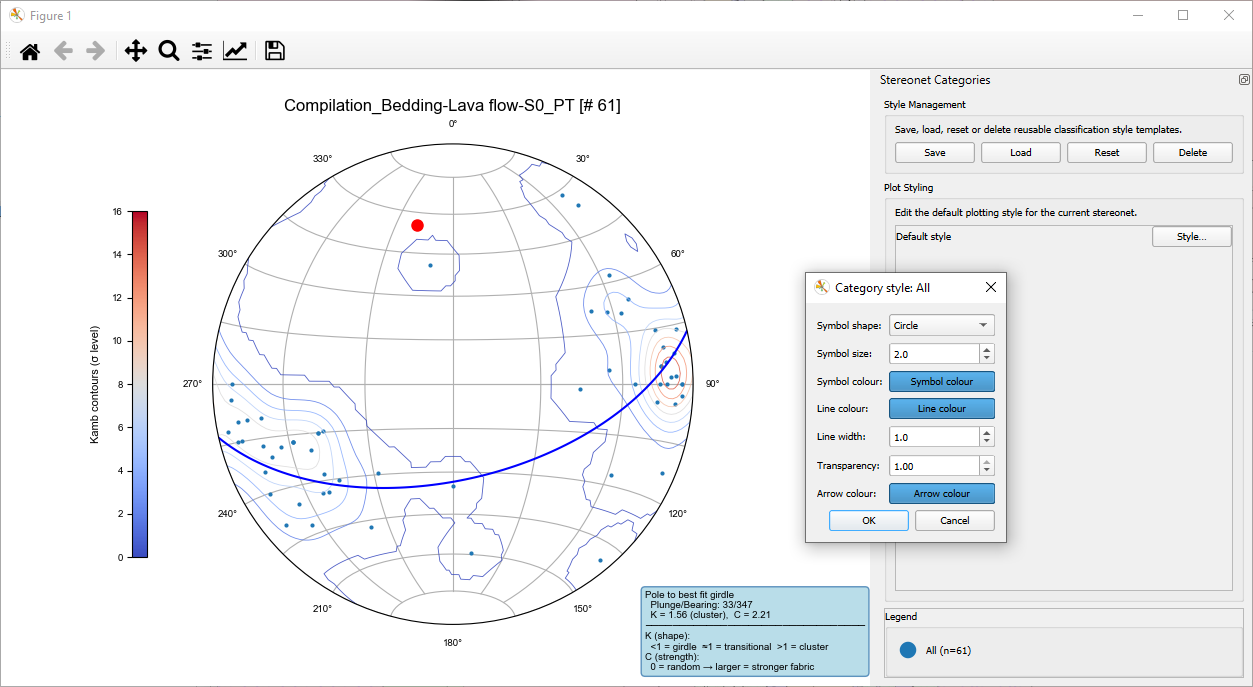
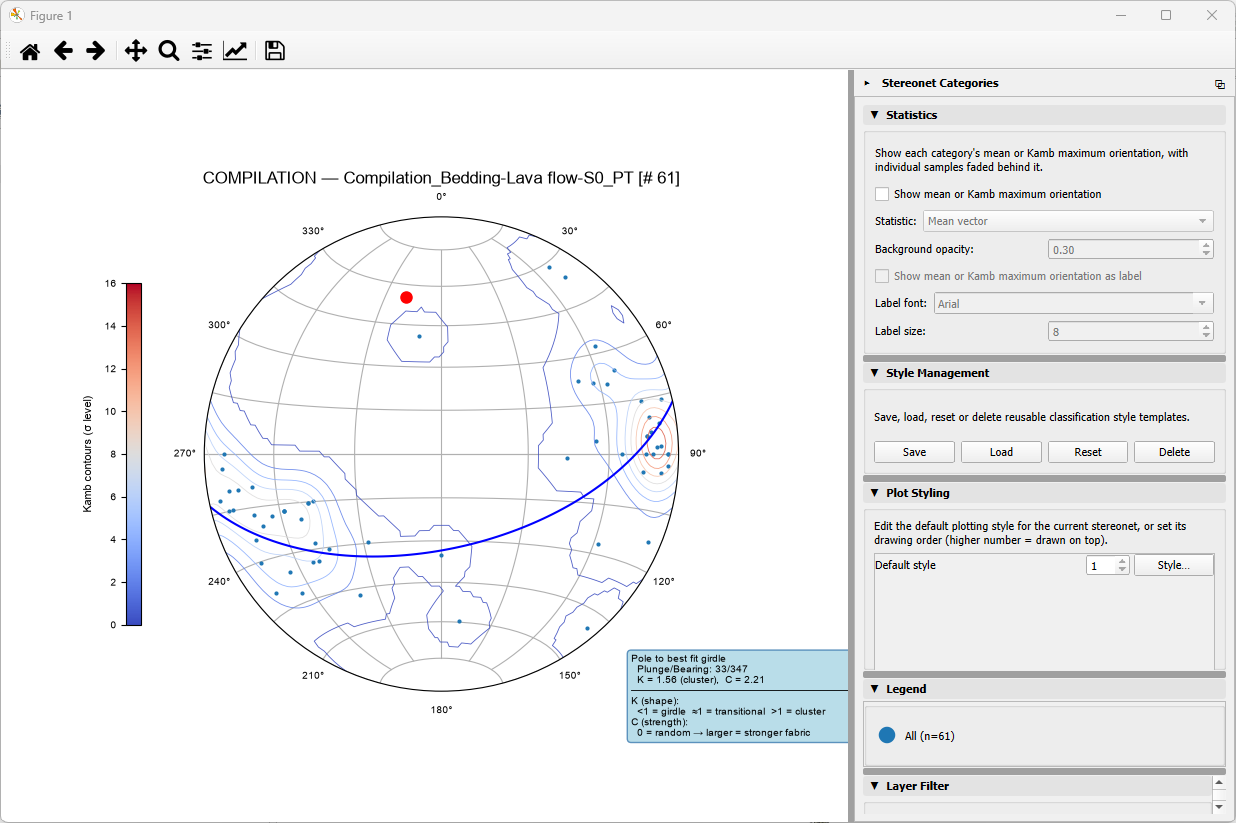
Make the Settings window a dockable panel
The Stereoplot Settings window is now a dock widget of the QGIS main
window (docked right by default; movable, floatable, closable, listed
under View > Panels) instead of a standalone window-modal dialog.
The panel rebuilds when the layer selection or project changes, and
fits its groups to the dock height when docked.

Update the 1.0.2 changelog (README and metadata), the Settings section
of the user guide, and the affected screenshots.

diff --git a/__init__.py b/__init__.py
@@ -245,10 +245,11 @@ class _CollapsibleSection(QWidget):
             widget = widget.parentWidget()
 
 
-class StereonetSettingsDialog(QDialog):
-    """Settings dialog for controlling stereonet plot style.
+class StereonetSettingsDialog(QWidget):
+    """Settings panel for controlling stereonet plot style, shown in a dock
+    widget of the QGIS main window.
 
-    If config_path points to an existing stereonet.json the dialog reads from
+    If config_path points to an existing stereonet.json the panel reads from
     and writes back to that file.  Otherwise values are persisted in QSettings.
     """
 
@@ -285,11 +286,6 @@ class StereonetSettingsDialog(QDialog):
         self._selected_kinematics_field = None
         self._filter_expression = ''
         self._auto_detected_fields = auto_detected_fields or {}
-        self.setWindowTitle('Stereographic Projection Settings')
-        # The window stays open while plotting, so it must not block the plot
-        # windows it opens. Window-modal blocks only the QGIS main window,
-        # which keeps the layer selection stable while the window is open.
-        self.setWindowModality(Qt.WindowModality.WindowModal)
 
         cfg = self._load()
 
@@ -569,7 +565,7 @@ class StereonetSettingsDialog(QDialog):
         self.update_btn.setDefault(True)
         self.update_btn.setToolTip(
             'Save these settings and generate the plot (same as clicking the '
-            'Stereoplot icon). This window stays open so you can adjust the '
+            'Stereoplot icon). This panel stays open so you can adjust the '
             'settings and plot again.')
         self.update_btn.clicked.connect(lambda _checked=False: self._update_and_plot())
         button_row = QHBoxLayout()
@@ -590,8 +586,25 @@ class StereonetSettingsDialog(QDialog):
         super().showEvent(event)
         self._schedule_fit()
 
+    def resizeEvent(self, event):
+        super().resizeEvent(event)
+        # When docked, the dock (not this panel) decides the height, so
+        # re-share it between the groups whenever the user resizes the dock.
+        dock = self._dock()
+        if dock is not None and not dock.isFloating() and event.oldSize().height() != event.size().height():
+            self._schedule_fit()
+
+    def _dock(self):
+        """The dock widget holding this panel, or None."""
+        widget = self.parentWidget()
+        while widget is not None:
+            if isinstance(widget, QDockWidget):
+                return widget
+            widget = widget.parentWidget()
+        return None
+
     def _schedule_fit(self, *_args):
-        """Fit the window to its groups after one is collapsed/expanded
+        """Fit the panel to its groups after one is collapsed/expanded
         (deferred, and coalesced if several changes arrive together)."""
         self._fit_repeats = 0
         self._queue_fit(0)
@@ -615,15 +628,22 @@ class StereonetSettingsDialog(QDialog):
         return header + 2 + height
 
     def _fit_to_contents(self):
-        """Size the window and its four groups to use the space well.
+        """Size the panel and its four groups to use the space well.
 
         Each expanded group gets the height its contents need and each
-        collapsed group just its header; the window grows/shrinks to match (up
-        to 90% of the screen). If the screen limit is hit, the Field
-        Assignment group gives up height first, then Plot Options, then
-        Classification and Data Filter; the groups scroll as needed.
+        collapsed group just its header. When the dock is floating, its window
+        grows/shrinks to match (up to 90% of the screen); when docked, the
+        groups share the height the dock has. If there is not enough height,
+        the Field Assignment group gives up height first, then Plot Options,
+        then Classification and Data Filter; the groups scroll as needed.
         """
         self._fit_pending = False
+        try:
+            self._fit_to_contents_now()
+        except RuntimeError:  # the panel was deleted before the timer fired
+            pass
+
+    def _fit_to_contents_now(self):
         splitter = self._settings_splitter
         sections = self._settings_sections
         margins = self.layout().contentsMargins()
@@ -632,12 +652,17 @@ class StereonetSettingsDialog(QDialog):
         handles = splitter.handleWidth() * (splitter.count() - 1)
         wants = [self._section_height(section) + 6 for section in sections]
 
-        try:
-            screen = self.screen() or QGuiApplication.primaryScreen()
-            max_total = int(screen.availableGeometry().height() * 0.9)
-        except Exception:
-            max_total = 900
-        total = min(sum(wants) + handles + chrome, max_total)
+        dock = self._dock()
+        floating = dock is None or dock.isFloating()
+        if floating:
+            try:
+                screen = self.screen() or QGuiApplication.primaryScreen()
+                max_total = int(screen.availableGeometry().height() * 0.9)
+            except Exception:
+                max_total = 900
+            total = min(sum(wants) + handles + chrome, max_total)
+        else:
+            total = self.height()
         available = total - chrome - handles
 
         alloc = list(wants)
@@ -651,8 +676,13 @@ class StereonetSettingsDialog(QDialog):
             alloc[index] -= take
             excess -= take
 
-        if total != self.height():
-            self.resize(self.width(), total)
+        if floating and total != self.height():
+            if dock is not None:
+                # Resize the floating dock window; its title bar and frame
+                # come on top of this panel's height.
+                dock.resize(dock.width(), total + dock.height() - self.height())
+            else:
+                self.resize(self.width(), total)
         splitter.setSizes(alloc)
 
         # Qt can still be re-laying-out nested widgets right after a change, so
@@ -1334,6 +1364,18 @@ class Stereonet:
         self.iface.removeToolBarIcon(self.settingsAction)
         del self.settingsAction
 
+        dock = getattr(self, '_settings_dock', None)
+        if dock is not None:
+            try:
+                self._settings_selection_model.selectionChanged.disconnect(
+                    self._on_layer_selection_changed)
+            except (TypeError, RuntimeError):
+                pass
+            self._settings_refresh_timer.stop()
+            self.iface.removeDockWidget(dock)
+            dock.deleteLater()
+            self._settings_dock = None
+
     def _structural_field_names(self):
         """Return accepted field-name variants for structural data detection."""
         return {
@@ -1676,25 +1718,74 @@ class Stereonet:
         return detected
 
     def showSettings(self):
-        project_file = QgsProject.instance().fileName()
-        config_path = None
-        if project_file:
-            config_path = os.path.join(
-                os.path.dirname(os.path.abspath(project_file)),
-                "99_COMMAND_FILES_PLUGIN",
-                "stereonet.json")
+        """Show the settings panel in a dock of the QGIS main window (right
+        side by default; it can be moved to another side or floated)."""
+        dock = getattr(self, '_settings_dock', None)
+        if dock is not None and dock.isVisible():
+            dock.raise_()
+            return
 
-        # Only one settings window at a time: bring an open one to the front.
-        existing = getattr(self, '_settings_dialog', None)
-        if existing is not None:
+        if dock is None:
+            dock = QgsDockWidget('Stereographic Projection Settings', self.iface.mainWindow())
+            dock.setObjectName('StereoplotSettingsDock')
+            self.iface.addDockWidget(Qt.DockWidgetArea.RightDockWidgetArea, dock)
+            self._settings_dock = dock
+
+            # The panel depends on the selected layers (field assignment,
+            # classification fields, ...), so rebuild it when the selection
+            # changes while it is shown. Coalesce bursts of selection changes.
+            self._settings_refresh_timer = QTimer()
+            self._settings_refresh_timer.setSingleShot(True)
+            self._settings_refresh_timer.setInterval(150)
+            self._settings_refresh_timer.timeout.connect(self._refresh_settings_panel)
+            self._settings_selection_model = self.iface.layerTreeView().selectionModel()
+            self._settings_selection_model.selectionChanged.connect(
+                self._on_layer_selection_changed)
+            # Also catch the dock being reopened from View > Panels.
+            dock.visibilityChanged.connect(self._on_layer_selection_changed)
+
+        self._build_settings_panel()
+        dock.setUserVisible(True)
+        dock.raise_()
+
+    def _on_layer_selection_changed(self, *_args):
+        dock = getattr(self, '_settings_dock', None)
+        if dock is not None and dock.isVisible():
+            self._settings_refresh_timer.start()
+
+    def _refresh_settings_panel(self):
+        """Rebuild the settings panel if the layer selection or the project
+        has changed since it was built."""
+        dock = getattr(self, '_settings_dock', None)
+        if dock is None or not dock.isVisible():
+            return
+        panel = dock.widget()
+        if isinstance(panel, StereonetSettingsDialog):
+            layers = self.iface.layerTreeView().selectedLayers()
             try:
-                if existing.isVisible():
-                    existing.raise_()
-                    existing.activateWindow()
-                    return
-            except RuntimeError:  # the underlying Qt window was already deleted
-                pass
-            self._settings_dialog = None
+                same_layers = ([layer.id() for layer in layers] ==
+                               [layer.id() for layer in panel._selected_layers])
+            except RuntimeError:  # a layer the panel was built for was removed
+                same_layers = False
+            if same_layers and panel._config_path == self._settings_config_path():
+                return
+        self._build_settings_panel()
+
+    @staticmethod
+    def _settings_config_path():
+        """Path of the project's stereonet.json, or None if no project is saved."""
+        project_file = QgsProject.instance().fileName()
+        if not project_file:
+            return None
+        return os.path.join(
+            os.path.dirname(os.path.abspath(project_file)),
+            "99_COMMAND_FILES_PLUGIN",
+            "stereonet.json")
+
+    def _build_settings_panel(self):
+        """(Re)create the settings panel for the current project and layer
+        selection and put it in the settings dock."""
+        config_path = self._settings_config_path()
 
         layers = self.iface.layerTreeView().selectedLayers()
         persisted_config = self._load_persisted_config(config_path)
@@ -1703,8 +1794,9 @@ class Stereonet:
         kinematics_candidate_fields = self._candidate_kinematics_fields(layers)
         auto_detected_fields = self._auto_detected_structural_fields(layers)
 
-        dlg = StereonetSettingsDialog(
-            self.iface.mainWindow(),
+        dock = self._settings_dock
+        panel = StereonetSettingsDialog(
+            dock,
             config_path=config_path,
             detected_data_type=detected_data_type,
             selected_layers=layers,
@@ -1712,10 +1804,11 @@ class Stereonet:
             auto_detected_fields=auto_detected_fields,
             # "Update Settings and Plot" plots exactly as the Stereoplot icon does.
             plot_callback=self.contourPlot)
-        dlg.setAttribute(Qt.WidgetAttribute.WA_DeleteOnClose)
-        dlg.destroyed.connect(lambda *_: setattr(self, '_settings_dialog', None))
-        self._settings_dialog = dlg
-        dlg.show()
+        dock.topLevelChanged.connect(panel._schedule_fit)
+        old_panel = dock.widget()
+        dock.setWidget(panel)
+        if old_panel is not None:
+            old_panel.deleteLater()
     
     def waxi_tangent_lineation_plot(self,ax,strikes, dips,kinematics,rhr,azs):
         """Makes a tangent lineation plot for normal faults with the given strikes,

diff --git a/README.md b/README.md
@@ -28,8 +28,9 @@ If you use **Stereoplot** together with **GEOL-QMAPS**, please also cite the GEO
 # Changelog 1.0.2
 
        ### Collapsible, resizable panels
-       - The **Settings** window is now made of four collapsible groups - **Plot Options** (the checkboxes, data type and arrow position), **Orientation Measurement Field Assignment**, **Classification** and **Data Filter** - separated by three draggable bars. Click a group's header to collapse or expand it; the window automatically resizes to fit its groups whenever one is collapsed or expanded.
-       - A single **Update Settings and Plot** button now sits at the bottom of the Settings window: it saves the settings and generates the plot (same as clicking the **Stereoplot** icon) while keeping the Settings window open, so settings can be adjusted and the plot regenerated without reopening it. The window only blocks the QGIS main window, not the plot windows.
+       - The **Settings** window is now a dockable panel of the QGIS main window: it opens docked on the right and can be moved to any side, tabbed with other panels, floated in its own window or closed (it is also listed under *View > Panels*). Clicking the **Stereoplot Settings** button while it is open brings it to the front. The panel rebuilds itself automatically when the layer selection or the project changes, so its field lists always match the selected layers (unsaved changes are discarded when this happens).
+       - The **Settings** panel is now made of four collapsible groups - **Plot Options** (the checkboxes, data type and arrow position), **Orientation Measurement Field Assignment**, **Classification** and **Data Filter** - separated by three draggable bars. Click a group's header to collapse or expand it; when floating, the panel automatically resizes to fit its groups whenever one is collapsed or expanded, and when docked the groups share the dock's height.
+       - A single **Update Settings and Plot** button now sits at the bottom of the Settings panel: it saves the settings and generates the plot (same as clicking the **Stereoplot** icon) while keeping the panel open, so settings can be adjusted and the plot regenerated without reopening it. Neither QGIS nor the plot windows are blocked while it is open.
        - The category panel in the plot window can now be collapsed/expanded with a button in its title bar, docked to any side of the plot window (or floated), and resized by dragging the bars between it and the plot and between each of its sections.
        - Each section of the category panel (**Statistics**, **Style Management**, **Classification**, **Legend** and **Layer Filter**) can be collapsed/expanded by clicking its header; **Style Management** starts collapsed.
        - Fixed the spelling of "Orientation Measurement Field Assignment".
@@ -221,7 +222,12 @@ The **Orientation Measurement Field Assignment** panel lets users manually assig
 
 Two further panels enable to classify data to plot based on an attribute of the layer, and to filter out entities to plot.
 
-The window's four groups - **Plot Options**, **Orientation Measurement Field Assignment**, **Classification** and **Data Filter** - each have a header you can click to collapse or expand the group, and are separated by three draggable bars to trade height between them (each group scrolls if it is made smaller than its contents). The window automatically resizes to fit its groups whenever one is collapsed or expanded. The **Update Settings and Plot** button at the bottom of the window saves the settings and generates the plot (same as clicking the **Stereoplot** icon) without closing the window, so you can adjust the settings and plot again straight away; the plot windows stay interactive while it is open, and the QGIS main window is blocked until you close it (so the layer selection cannot change underneath it).
+The settings open as a dockable panel on the right of the QGIS main window. Drag its title bar to dock it to another side or tab it with other panels, use its float button to detach it into its own window, or close it; it can also be reopened from *View > Panels*. Clicking **Stereoplot Settings** while the panel is open brings it to the front.
+
+The panel's four groups - **Plot Options**, **Orientation Measurement Field Assignment**, **Classification** and **Data Filter** - each have a header you can click to collapse or expand the group, and are separated by three draggable bars to trade height between them (each group scrolls if it is made smaller than its contents). When the panel is floating, it automatically resizes to fit its groups whenever one is collapsed or expanded; when docked, the groups share the height of the dock. The **Update Settings and Plot** button at the bottom of the panel saves the settings and generates the plot (same as clicking the **Stereoplot** icon) without closing the panel, so you can adjust the settings and plot again straight away. QGIS and the plot windows stay fully usable while the panel is open.
+
+> [!NOTE]
+> The panel's content depends on the selected layers (e.g., the field lists), so it rebuilds itself whenever the layer selection or the project changes. Any settings not yet saved with **Update Settings and Plot** are discarded when this happens.
 
 > [!TIP]
 > Opening **Settings** and clicking **Update Settings and Plot** at least once is no longer required before the first **Stereoplot** click: the plot now uses the automatically detected data type until settings have been explicitly saved.
